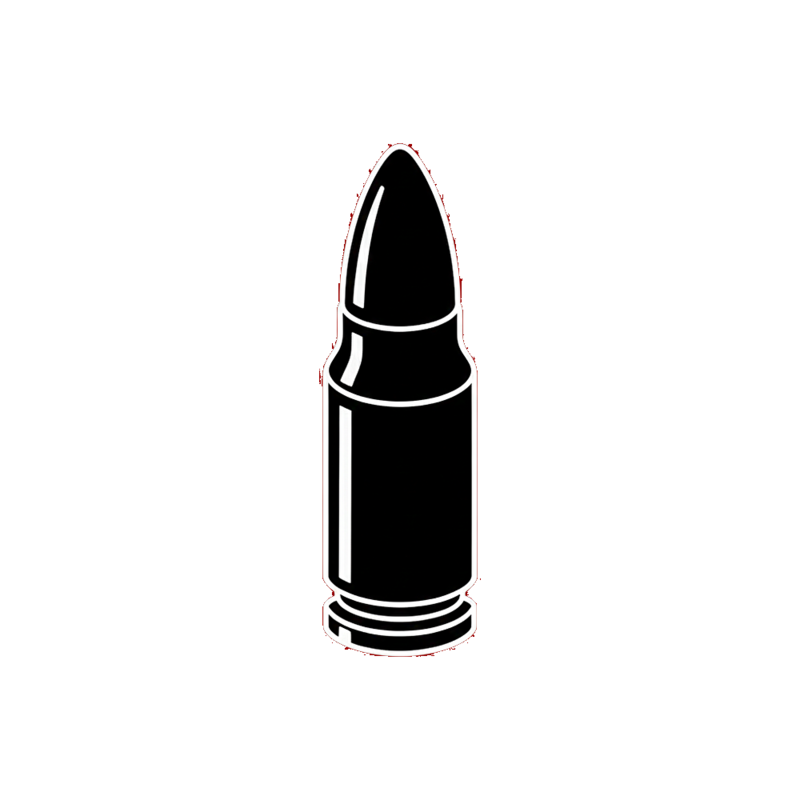
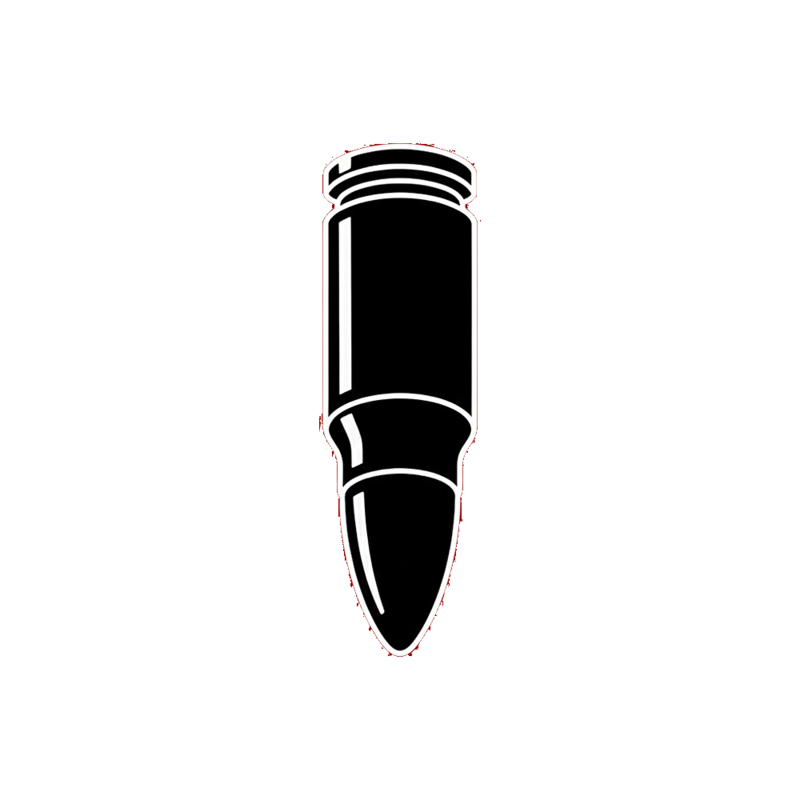
fix enemy_bullet

Changed region(s): [[0.4062, 0.1562, 0.5938, 0.8438]]

diff --git a/index.html b/index.html
@@ -74,7 +74,7 @@
 
         const enemyBulletImg = new Image();
 
-        enemyBulletImg.src = "img/bullet.png";
+        enemyBulletImg.src = "img/enemy_bullet.png";
 
 
 
